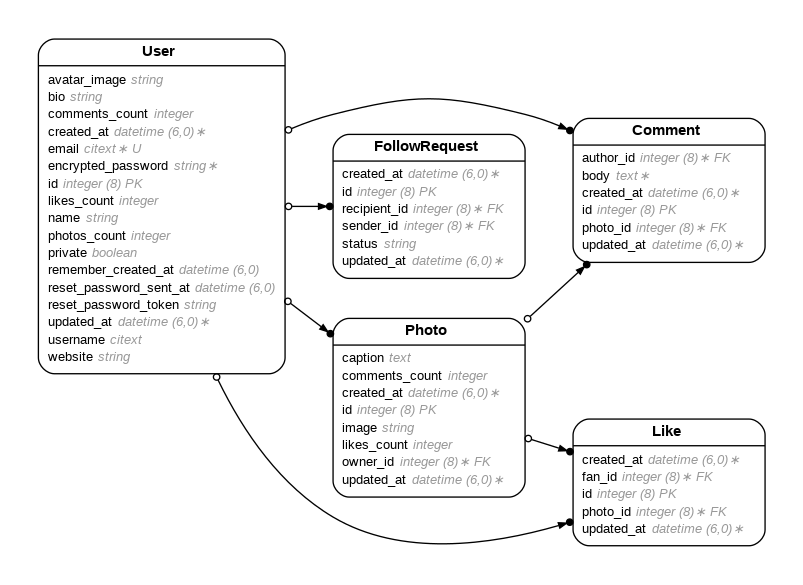
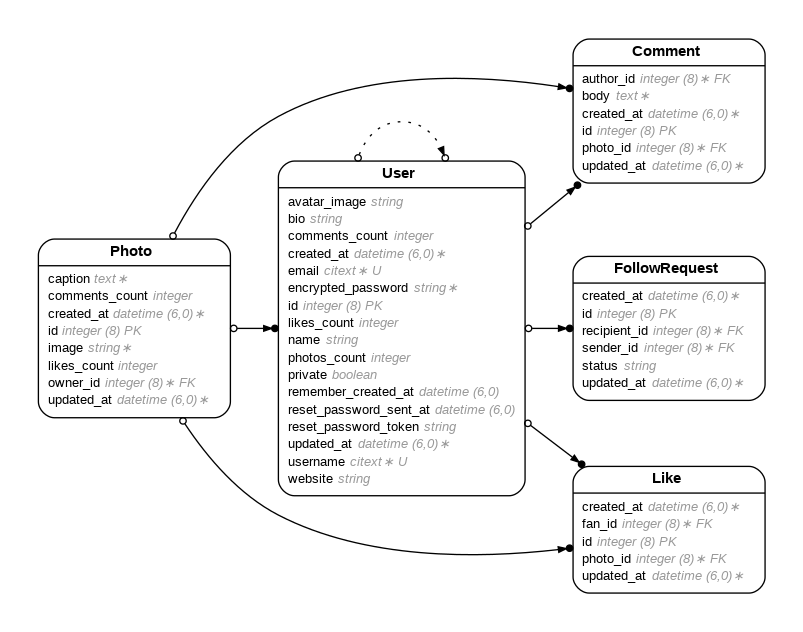
almost finished

diff --git a/app/assets/stylesheets/application.css b/app/assets/stylesheets/application.css
@@ -8,3 +8,22 @@
  *
  * Consider organizing styles into separate files for maintainability.
  */
+.img-cover {
+  object-fit: cover;
+  object-position: center;
+}
+
+.img-small {
+  width: 36px;
+  height: 36px;
+}
+
+.img-medium {
+  width: 128px;
+  height: 128px;
+}
+
+.img-large {
+  width: 200px;
+  height: 200px;
+}

diff --git a/app/models/user.rb b/app/models/user.rb
@@ -45,7 +45,7 @@ class User < ApplicationRecord
          has_many :received_follow_requests, foreign_key: :recipient_id, class_name: "FollowRequest"
          
          has_many :accepted_received_follow_requests, -> { where(status: "accepted") }, foreign_key: :recipient_id, class_name: "FollowRequest"
-       
+
          has_many :likes, foreign_key: :fan_id
        
          has_many :own_photos, foreign_key: :owner_id, class_name: "Photo"
@@ -57,6 +57,9 @@ class User < ApplicationRecord
          has_many :leaders, through: :accepted_sent_follow_requests, source: :recipient
        
          has_many :followers, through: :accepted_received_follow_requests, source: :sender
+         
+         has_many :pending, through: :pending_sent_follow_requests,  source: :recipient
+
        
          has_many :feed, through: :leaders, source: :own_photos
        

diff --git a/db/schema.rb b/db/schema.rb
@@ -47,7 +47,7 @@ ActiveRecord::Schema[8.0].define(version: 2025_04_25_205456) do
     t.string "image"
     t.integer "comments_count"
     t.integer "likes_count", default: 0
-    t.text "caption", default: "0"
+    t.text "caption"
     t.bigint "owner_id", null: false
     t.datetime "created_at", null: false
     t.datetime "updated_at", null: false

diff --git a/db/migrate/20250424183505_create_photos.rb b/db/migrate/20250424183505_create_photos.rb
@@ -4,7 +4,7 @@ class CreatePhotos < ActiveRecord::Migration[8.0]
       t.string :image
       t.integer :comments_count
       t.integer :likes_count , default: 0
-      t.text :caption , default: 0
+      t.text :caption 
       t.references :owner, null: false, foreign_key: { to_table: :users }
       # ...
 

diff --git a/app/models/photo.rb b/app/models/photo.rb
@@ -3,7 +3,7 @@
 # Table name: photos
 #
 #  id             :bigint           not null, primary key
-#  caption        :text             default("0")
+#  caption        :text
 #  comments_count :integer
 #  image          :string
 #  likes_count    :integer          default(0)

diff --git a/app/controllers/users_controller.rb b/app/controllers/users_controller.rb
@@ -8,9 +8,11 @@ class UsersController < ApplicationController
   end
   def feed
     @user = User.find_by!(username: params.fetch(:username))
+
   end
 
   def discover
     @user = User.find_by!(username: params.fetch(:username))
   end
 end
+private
